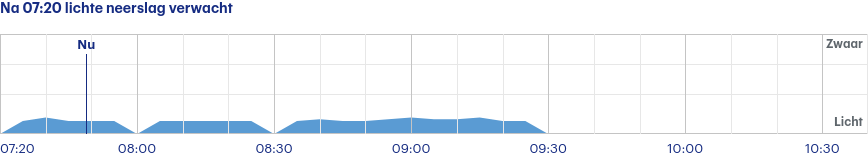
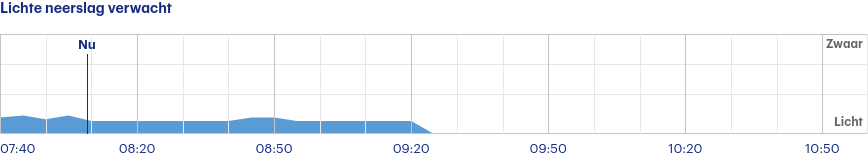
Latest scraping buienradar: Tue Jul 25 06:00:34 UTC 2023

diff --git a/scrapes/buienradar/buienradar-jette-3-uur.md b/scrapes/buienradar/buienradar-jette-3-uur.md
@@ -1,4 +1,4 @@
-Na 07:20 lichte neerslag verwacht
+Lichte neerslag verwacht
 
 ![](buienradar-jette-3-uur.png)
 
